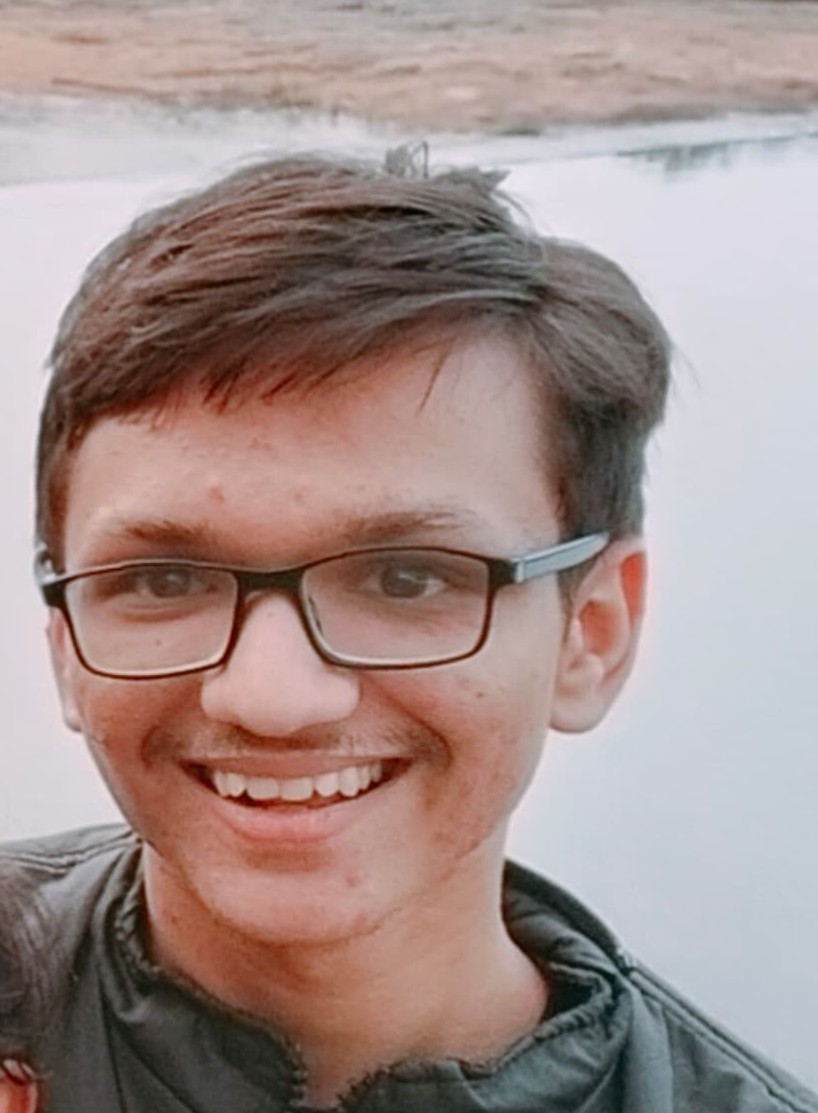
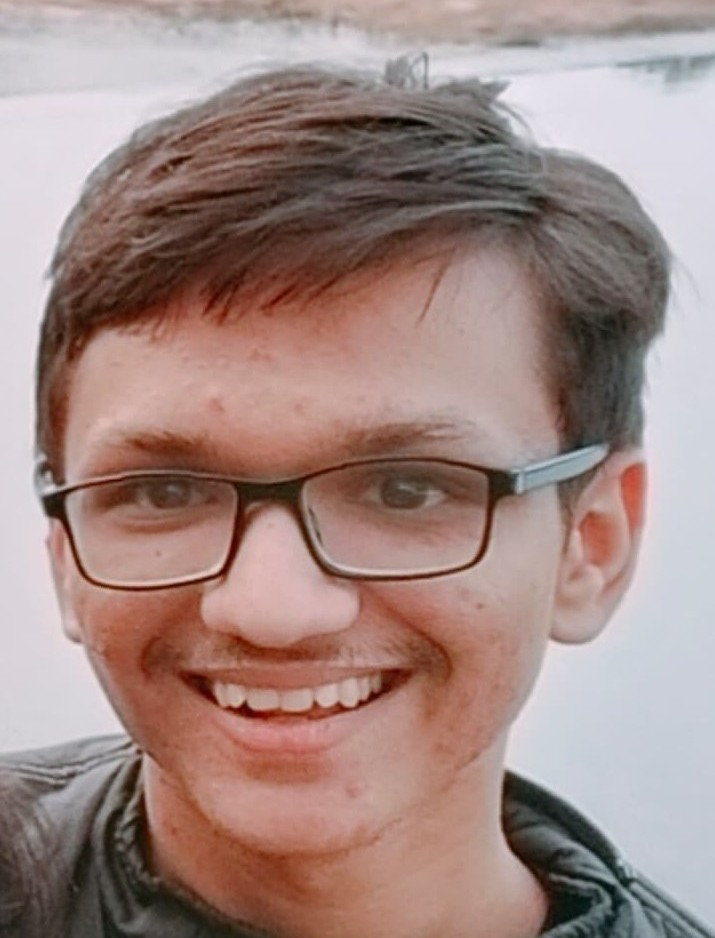
fixes-about-us

diff --git a/frontend/src/pages/AboutUs.jsx b/frontend/src/pages/AboutUs.jsx
@@ -15,6 +15,7 @@ import MaunilImg from "../images/members/maunil.png";
 import ManojImg from "../images/members/manoj.jpg";
 import DivyImg from "../images/members/divy.jpg";
 import KishanImg from "../images/members/kishan.jpeg";
+import ShravanImg from "../images/members/shravan.jpeg";
 
 const teamMembers = [
   {
@@ -67,9 +68,9 @@ const teamMembers = [
   },
   {
     name: "Shravankumar Makwana",
-    photo: "",
-    github: "https://github.com",
-    linkedin: "https://linkedin.com/",
+    photo: ShravanImg,
+    github: "https://github.com/Hepatitous",
+    linkedin: "https://www.linkedin.com/in/shravan-makwana-7b078633a/",
   },
 ];
 
@@ -106,7 +107,7 @@ function AboutUS() {
               <div className="section-title">
                 <h2 style={{ fontFamily: "Quicksand" }}>About US</h2>
                 <p style={{ fontFamily: "Quicksand" }}>
-                  We create and build real-time collaborative editing tools, making it easy for people to work together online.
+                  We developed powerful real-time collaborative editing tools designed to make online teamwork seamless and efficient.
                 </p>
               </div>
             </div>
@@ -119,8 +120,8 @@ function AboutUS() {
                     <img src={member.photo} alt="logo"
                       style={{
                         border: "1px solid #333333",
-                        objectFit: "contain", height: 200, width: 200,
-                        backgroundColor: "#FAFAFA", borderRadius: "50%"
+                        objectFit: "cover", height: 200, width: 200,
+                        backgroundColor: "#FAFAFA", borderRadius: "20%"
                       }}
                       onError={(e) => (e.target.src = avatars[0])}
                     />

diff --git a/frontend/src/CSS/AboutUs.css b/frontend/src/CSS/AboutUs.css
@@ -19,7 +19,7 @@
   margin: 15px 0;
   position: relative;
   z-index: 1;
-  border-radius: 10px;
+  border-radius: 16px;
   overflow: hidden;
   -moz-transition: ease all 0.35s;
   -o-transition: ease all 0.35s;
@@ -67,7 +67,7 @@
   bottom: 0;
   left: auto;
   right: 0;
-  border-radius: 10px;
+  border-radius: 16px;
   width: 0;
   background: #FAFAFA;
   z-index: -1;
@@ -93,7 +93,7 @@
 .feature-box-1:hover:after {
   width: 100%;
   height: 100%;
-  border-radius: 10px;
+  border-radius: 16px;
   left: 0;
   right: auto;
   border:1px solid black;
